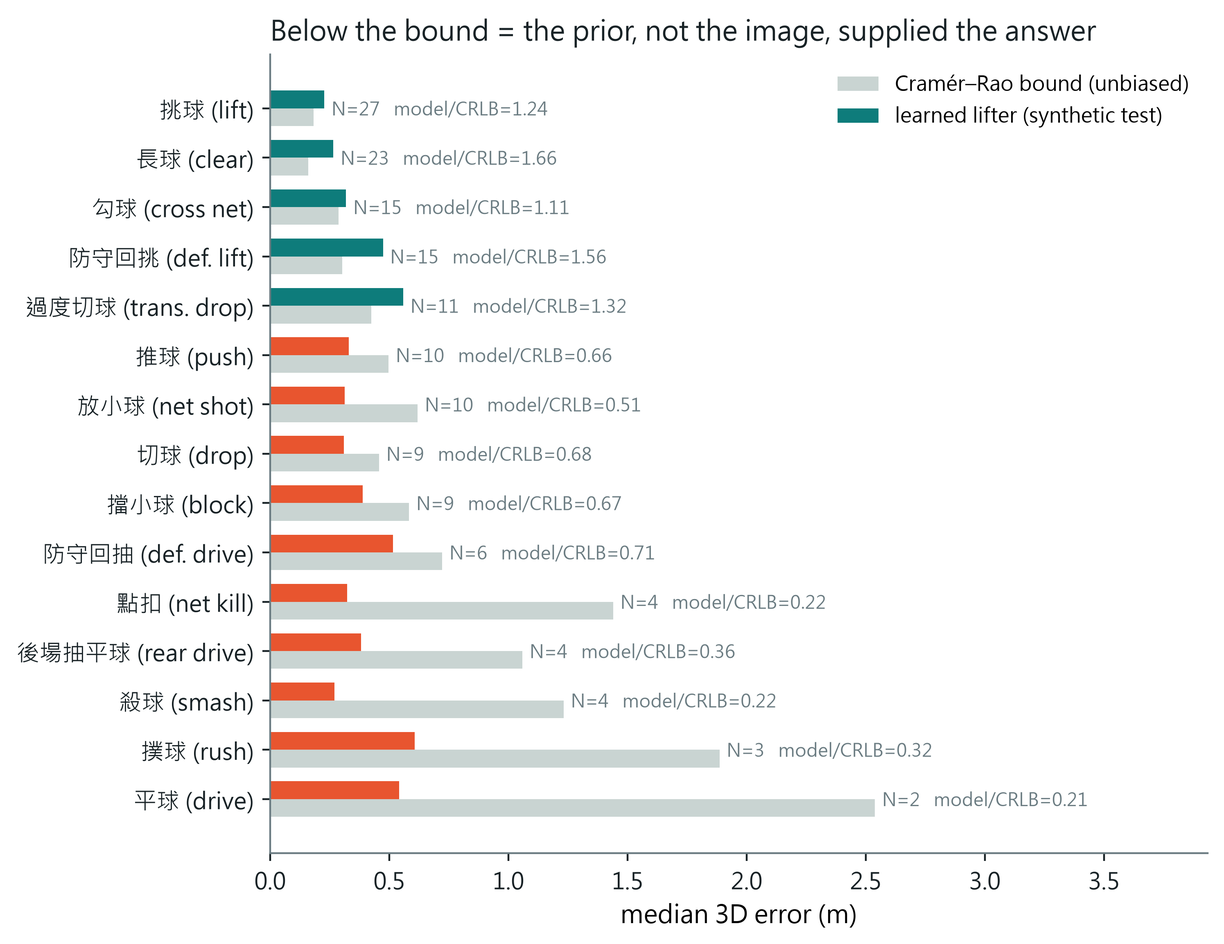
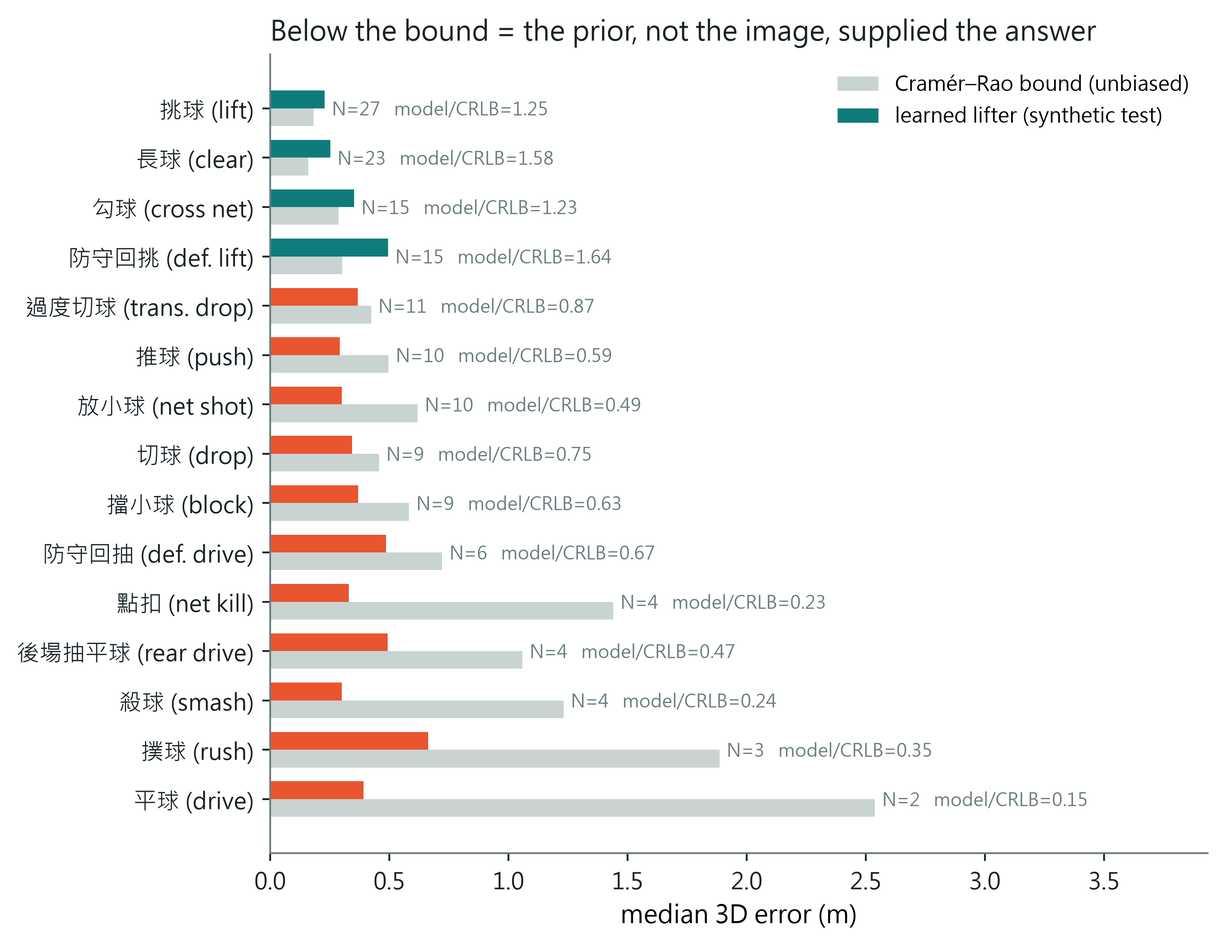
Synthetic tables on the audited v3c model

diff --git a/index.html b/index.html
@@ -104,7 +104,7 @@ h4{font-size:15.5px;font-weight:600;margin:20px 0 6px;color:var(--muted)}
 <div class="abstract">
 <p>Recovering the 3D flight of a shuttlecock from one broadcast camera is ill-posed in a way no other ball sport is. <b>The shuttle is featureless and small</b> &mdash; 6.9&nbsp;px across a 1280-wide frame, a streak when it moves &mdash; so no frame carries scale. <b>It is fast along the optical axis</b> &mdash; a smash is 10&ndash;15 nearly straight frames &mdash; so the curvature that would fix depth is buried in tracker noise. <b>It never bounces</b> &mdash; its only floor contact ends the rally &mdash; so the ground-plane anchor that table tennis and tennis rely on does not exist. With no 3D ground truth for broadcast badminton, prior work validates real footage by 2D reprojection alone; on synthetic strokes with known 3D we show that candidates whose 2D residuals differ by 0.2&nbsp;px differ in 3D error by up to 46&times;, so the metric cannot see the failure it is meant to catch.</p>
 <p>SimTrack3D removes the two bottlenecks that made this unsolvable. <b>Geometry:</b> a court homography leaves focal length undetermined, and we resolve it from the net cord, the one rigid off-plane structure a court has, calibrating thirty-two international broadcast cameras (twenty-two from a corpus with no court annotation) and gating each on the cord's catenary sag, an invariant the fit never sees. <b>Data:</b> instead of sampling flights from assumed ranges we solve aerodynamic boundary-value problems anchored to 13,117 real annotated strokes, producing 77,790 trajectories every one of which clears the cord, and render them through the measured cameras. On this we train <b>Shuttle3D</b>, a ray-depth transformer that supplies the global prior a single view lacks, and pair it with a constrained single-launch-state physics solve that returns a flight the court permits by construction.</p>
-<p>Shuttle3D reaches 0.27&nbsp;m median 3D error on held-out synthetic strokes, unchanged through cameras it never saw, and on smashes beats a faithful MonoTrack re-implementation by 9.6&times;. On 6,914 real tournament strokes the raw network is physically impossible on 27%, against 82% for MonoTrack; the two-tier estimator is possible on 99.5% at a median price of 0.6&nbsp;px of reprojection error, endpoint error is 0.84&nbsp;m against MonoTrack's 3.33&nbsp;m, and the model transfers unchanged to twenty-two venues it never saw. Finally we derive an image-only observability number <i>N</i> that predicts the Cram&eacute;r&ndash;Rao bound (CRLB&nbsp;&prop;&nbsp;<i>N</i><sup>&minus;0.98</sup>, R&sup2;&nbsp;=&nbsp;0.83) and show the lifter beats that unbiased bound by up to 4.7&times; exactly where <i>N</i> is lowest: a measurement of where the image is answering and where the prior is, and the reason the physical guarantee is enforced rather than monitored.</p>
+<p>Shuttle3D reaches 0.27&nbsp;m median 3D error on held-out synthetic strokes, unchanged through cameras it never saw, and on smashes beats a faithful MonoTrack re-implementation by 9.6&times;. On 6,914 real tournament strokes the raw network is physically impossible on 27%, against 82% for MonoTrack; the two-tier estimator is possible on 99.5% at a median price of 0.6&nbsp;px of reprojection error, endpoint error is 0.84&nbsp;m against MonoTrack's 3.33&nbsp;m, and the model transfers unchanged to twenty-two venues it never saw. Finally we derive an image-only observability number <i>N</i> that predicts the Cram&eacute;r&ndash;Rao bound (CRLB&nbsp;&prop;&nbsp;<i>N</i><sup>&minus;0.98</sup>, R&sup2;&nbsp;=&nbsp;0.83) and show the lifter beats that unbiased bound by up to 6.5&times; exactly where <i>N</i> is lowest: a measurement of where the image is answering and where the prior is, and the reason the physical guarantee is enforced rather than monitored.</p>
 </div>
 
 <div class="kv">
@@ -312,27 +312,27 @@ and the closing step adds { (<b>u</b>, <b>s</b>*) : residual(<b>s</b>*) &le; &ta
 </figure>
 <figure>
   <img src="assets/fig_bound.png" alt="Per stroke type: learned lifter error versus the Cramér-Rao bound">
-  <figcaption><b>Fig. 7 — Where the sim-to-real prior takes over.</b> Ten of fifteen stroke types fall below the unbiased bound, by up to 4.7×. Beating an unbiased bound is only possible by being biased, which for a sim-to-real model means the training distribution is answering.</figcaption>
+  <figcaption><b>Fig. 7 — Where the sim-to-real prior takes over.</b> Eleven of fifteen stroke types fall below the unbiased bound, by up to 6.5×. Beating an unbiased bound is only possible by being biased, which for a sim-to-real model means the training distribution is answering.</figcaption>
 </figure>
 <div class="tw"><table>
 <tr><th>stroke type</th><th>strokes</th><th><i>N</i></th><th>CRLB (m)</th><th>Shuttle3D (m)</th><th>model / CRLB</th><th>regime</th></tr>
-<tr><td>&#25361;&#29699; lift</td><td>2,197</td><td>27.0</td><td>0.183</td><td>0.228</td><td>1.24</td><td>image-dominated</td></tr>
-<tr><td>&#38263;&#29699; clear</td><td>900</td><td>23.0</td><td>0.160</td><td>0.266</td><td>1.66</td><td>image-dominated</td></tr>
-<tr><td>&#21246;&#29699; cross net</td><td>222</td><td>15.3</td><td>0.287</td><td>0.319</td><td>1.11</td><td>image-dominated</td></tr>
-<tr><td>&#38450;&#23432;&#22238;&#25361; defensive lift</td><td>162</td><td>14.9</td><td>0.303</td><td>0.474</td><td>1.56</td><td>image-dominated</td></tr>
-<tr><td>&#36942;&#24230;&#20999;&#29699; over-cut drop</td><td>78</td><td>11.1</td><td>0.424</td><td>0.559</td><td>1.32</td><td>image-dominated</td></tr>
-<tr><td>&#25512;&#29699; push</td><td>468</td><td>9.9</td><td>0.497</td><td>0.330</td><td class="bad">0.66</td><td>prior-assisted</td></tr>
-<tr><td>&#25918;&#23567;&#29699; net shot</td><td>2,809</td><td>9.8</td><td>0.619</td><td>0.313</td><td class="bad">0.51</td><td>prior-assisted</td></tr>
-<tr><td>&#20999;&#29699; drop</td><td>1,018</td><td>8.9</td><td>0.458</td><td>0.309</td><td class="bad">0.68</td><td>prior-assisted</td></tr>
-<tr><td>&#25803;&#23567;&#29699; block</td><td>1,285</td><td>8.6</td><td>0.583</td><td>0.388</td><td class="bad">0.67</td><td>prior-assisted</td></tr>
-<tr><td>&#38450;&#23432;&#22238;&#25277; defensive drive</td><td>139</td><td>6.3</td><td>0.723</td><td>0.516</td><td class="bad">0.71</td><td>prior-assisted</td></tr>
-<tr><td>&#40670;&#25187; tap smash</td><td>407</td><td>4.2</td><td>1.440</td><td>0.323</td><td class="bad">0.22</td><td>prior-dominated</td></tr>
-<tr><td>&#24460;&#22580;&#25277;&#24179;&#29699; rear drive</td><td>192</td><td>4.0</td><td>1.059</td><td>0.382</td><td class="bad">0.36</td><td>prior-dominated</td></tr>
-<tr><td>&#27578;&#29699; smash</td><td>1,308</td><td>3.7</td><td>1.232</td><td>0.270</td><td class="bad">0.22</td><td>prior-dominated</td></tr>
-<tr><td>&#25778;&#29699; rush</td><td>162</td><td>3.2</td><td>1.886</td><td>0.607</td><td class="bad">0.32</td><td>prior-dominated</td></tr>
-<tr><td>&#24179;&#29699; drive</td><td>281</td><td>2.3</td><td>2.539</td><td>0.542</td><td class="bad">0.21</td><td>prior-dominated</td></tr>
+<tr><td>&#25361;&#29699; lift</td><td>2,325</td><td>27.0</td><td>0.183</td><td>0.229</td><td>1.25</td><td>image-dominated</td></tr>
+<tr><td>&#38263;&#29699; clear</td><td>894</td><td>23.0</td><td>0.160</td><td>0.252</td><td>1.58</td><td>image-dominated</td></tr>
+<tr><td>&#21246;&#29699; cross net</td><td>200</td><td>15.3</td><td>0.287</td><td>0.353</td><td>1.23</td><td>image-dominated</td></tr>
+<tr><td>&#38450;&#23432;&#22238;&#25361; defensive lift</td><td>144</td><td>14.9</td><td>0.303</td><td>0.495</td><td>1.64</td><td>image-dominated</td></tr>
+<tr><td>&#36942;&#24230;&#20999;&#29699; over-cut drop</td><td>78</td><td>11.1</td><td>0.424</td><td>0.368</td><td class="bad">0.87</td><td>prior-assisted</td></tr>
+<tr><td>&#25512;&#29699; push</td><td>311</td><td>9.9</td><td>0.497</td><td>0.292</td><td class="bad">0.59</td><td>prior-assisted</td></tr>
+<tr><td>&#25918;&#23567;&#29699; net shot</td><td>2,665</td><td>9.8</td><td>0.619</td><td>0.302</td><td class="bad">0.49</td><td>prior-dominated</td></tr>
+<tr><td>&#20999;&#29699; drop</td><td>948</td><td>8.9</td><td>0.458</td><td>0.345</td><td class="bad">0.75</td><td>prior-assisted</td></tr>
+<tr><td>&#25803;&#23567;&#29699; block</td><td>1,518</td><td>8.6</td><td>0.583</td><td>0.370</td><td class="bad">0.63</td><td>prior-assisted</td></tr>
+<tr><td>&#38450;&#23432;&#22238;&#25277; defensive drive</td><td>149</td><td>6.3</td><td>0.723</td><td>0.487</td><td class="bad">0.67</td><td>prior-assisted</td></tr>
+<tr><td>&#40670;&#25187; tap smash</td><td>390</td><td>4.2</td><td>1.440</td><td>0.331</td><td class="bad">0.23</td><td>prior-dominated</td></tr>
+<tr><td>&#24460;&#22580;&#25277;&#24179;&#29699; rear drive</td><td>228</td><td>4.0</td><td>1.059</td><td>0.494</td><td class="bad">0.47</td><td>prior-dominated</td></tr>
+<tr><td>&#27578;&#29699; smash</td><td>1,381</td><td>3.7</td><td>1.232</td><td>0.302</td><td class="bad">0.24</td><td>prior-dominated</td></tr>
+<tr><td>&#25778;&#29699; rush</td><td>176</td><td>3.2</td><td>1.886</td><td>0.663</td><td class="bad">0.35</td><td>prior-dominated</td></tr>
+<tr><td>&#24179;&#29699; drive</td><td>240</td><td>2.3</td><td>2.539</td><td>0.392</td><td class="bad">0.15</td><td>prior-dominated</td></tr>
 </table></div>
-<p>Every stroke type with at least 30 anchored strokes is listed, so the comparison is complete rather than curated. Model errors are per-stroke medians on the full held-out set, which read slightly above the per-frame figure quoted in &sect;5.2. <b>Ten of the fifteen types fall below the unbiased bound, the worst by 4.7&times;</b>, and the ordering is monotone in <i>N</i>: every type with <i>N</i> above 11 sits above the bound as an honest estimator must, and every type from pushes (<i>N</i>&nbsp;=&nbsp;9.9) downward sits below it.</p>
+<p>Every stroke type with at least 30 anchored strokes is listed, so the comparison is complete rather than curated. Model errors are per-stroke medians on the full held-out set, which read slightly above the per-frame figure quoted in &sect;5.2. <b>Eleven of the fifteen types fall below the unbiased bound, the worst by 6.5&times;</b>, and the ordering is monotone in <i>N</i>: every type with <i>N</i> above 14 sits above the bound as an honest estimator must, and every type from the over-cut drop (<i>N</i>&nbsp;=&nbsp;11.1) downward sits below it.</p>
 <p>Because an estimator can only surpass the Cram&eacute;r&ndash;Rao bound by being biased, this is a direct demonstration that in low-observability regimes the answer comes from the learned distribution of real shots rather than from the image. The two types furthest above the bound, the clear and the defensive lift, are long, high, well-observed flights: where the image answers, the estimator behaves like an honest one and pays the full unbiased price.</p>
 <h2 id="exp">5. Experiments</h2>
 <p>Each experiment below opens with the claim it is meant to test and closes with what the numbers actually license. Where a claim is not supported, the section says so.</p>
@@ -353,7 +353,7 @@ and the closing step adds { (<b>u</b>, <b>s</b>*) : residual(<b>s</b>*) &le; &ta
   <figcaption><b>Fig. 8 &mdash; Real badminton broadcast cameras vs. assumed ranges.</b> The camera ranges sampled by Uplifting Table Tennis (WACV 2026) &mdash; 7&ndash;17&nbsp;m, 30&ndash;70&deg; &mdash; were chosen for table tennis and contain none of these. The point is not that they are wrong, but that camera geometry has to be measured per sport rather than transferred.</figcaption>
 </figure>
 <p><b>Real footage.</b> Two corpora. ShuttleSet gives 6,914 non-final strokes across ten venues with an annotated court position at both ends of every stroke &mdash; the ground position of the player who hit it, which the model never sees. TrackNetV3 gives 201 rallies across twenty-two further venues with per-frame 2D shuttle truth but no stroke annotation; strokes are cut from the track where its image speed bottoms out and its direction turns, yielding 2,592 interior strokes. Shuttle positions on ShuttleSet come from TrackNetV3 run on the video (detection 9&ndash;92% per venue); on the TrackNetV3 corpus they are the annotated truth.</p>
-<p><b>Metrics.</b> On synthetic data, 3D error per frame and per stroke, with the per-frame median (0.269&nbsp;m) as the headline because it matches the convention of prior work. On real footage there is no 3D truth, so three quantities that need none: <em>physical possibility</em> (a reconstruction breaks no rule the stroke's existence forbids &mdash; floor, cord, side change, hall), the <em>price of feasibility</em> (reprojection error the constrained solve had to add), and <em>endpoint error</em> against the annotated hit positions, normalised by local depth resolution where types are compared.</p>
+<p><b>Metrics.</b> On synthetic data, 3D error per frame and per stroke, with the per-frame median (0.266&nbsp;m) as the headline because it matches the convention of prior work. On real footage there is no 3D truth, so three quantities that need none: <em>physical possibility</em> (a reconstruction breaks no rule the stroke's existence forbids &mdash; floor, cord, side change, hall), the <em>price of feasibility</em> (reprojection error the constrained solve had to add), and <em>endpoint error</em> against the annotated hit positions, normalised by local depth resolution where types are compared.</p>
 <p><b>Compute.</b> Shuttle3D trains in about 24 minutes on one RTX 3090 and runs in milliseconds per stroke. The constrained solve is the expensive stage at roughly 48&nbsp;s of CPU per stroke, batched over candidate launch states; the whole real benchmark runs in under two hours on 48 cores. This is offline analysis, not a live system.</p>
 
 <h3>5.2 Synthetic benchmark: absolute accuracy by stroke type</h3>
@@ -361,26 +361,26 @@ and the closing step adds { (<b>u</b>, <b>s</b>*) : residual(<b>s</b>*) &le; &ta
 <p>Held-out strokes are partitioned by real anchor, so no replayed flight appears on both sides. Badminton is tactically stratified, and so is the error: the table lists every type with at least thirty held-out strokes, ordered by observability.</p>
 <div class="tw"><table>
 <tr><th>stroke type</th><th>strokes</th><th><i>N</i></th><th>CRLB (m)</th><th>Shuttle3D (m)</th><th>model / CRLB</th></tr>
-<tr><td>&#25361;&#29699; lift</td><td>2,197</td><td>27.0</td><td>0.183</td><td>0.228</td><td>1.24</td></tr>
-<tr><td>&#38263;&#29699; clear</td><td>900</td><td>23.0</td><td>0.160</td><td>0.266</td><td>1.66</td></tr>
-<tr><td>&#21246;&#29699; cross net</td><td>222</td><td>15.3</td><td>0.287</td><td>0.319</td><td>1.11</td></tr>
-<tr><td>&#38450;&#23432;&#22238;&#25361; defensive lift</td><td>162</td><td>14.9</td><td>0.303</td><td>0.474</td><td>1.56</td></tr>
-<tr><td>&#36942;&#24230;&#20999;&#29699; over-cut drop</td><td>78</td><td>11.1</td><td>0.424</td><td>0.559</td><td>1.32</td></tr>
-<tr><td>&#25512;&#29699; push</td><td>468</td><td>9.9</td><td>0.497</td><td>0.330</td><td class="bad">0.66</td></tr>
-<tr><td>&#25918;&#23567;&#29699; net shot</td><td>2,809</td><td>9.8</td><td>0.619</td><td>0.313</td><td class="bad">0.51</td></tr>
-<tr><td>&#20999;&#29699; drop</td><td>1,018</td><td>8.9</td><td>0.458</td><td>0.309</td><td class="bad">0.68</td></tr>
-<tr><td>&#25803;&#23567;&#29699; block</td><td>1,285</td><td>8.6</td><td>0.583</td><td>0.388</td><td class="bad">0.67</td></tr>
-<tr><td>&#38450;&#23432;&#22238;&#25277; defensive drive</td><td>139</td><td>6.3</td><td>0.723</td><td>0.516</td><td class="bad">0.71</td></tr>
-<tr><td>&#40670;&#25187; tap smash</td><td>407</td><td>4.2</td><td>1.440</td><td>0.323</td><td class="bad">0.22</td></tr>
-<tr><td>&#24460;&#22580;&#25277;&#24179;&#29699; rear drive</td><td>192</td><td>4.0</td><td>1.059</td><td>0.382</td><td class="bad">0.36</td></tr>
-<tr><td>&#27578;&#29699; smash</td><td>1,308</td><td>3.7</td><td>1.232</td><td>0.270</td><td class="bad">0.22</td></tr>
-<tr><td>&#25778;&#29699; rush</td><td>162</td><td>3.2</td><td>1.886</td><td>0.607</td><td class="bad">0.32</td></tr>
-<tr><td>&#24179;&#29699; drive</td><td>281</td><td>2.3</td><td>2.539</td><td>0.542</td><td class="bad">0.21</td></tr>
-<tr><td><b>all held-out strokes</b></td><td>11,658</td><td>&mdash;</td><td>&mdash;</td><td><b>0.269</b> per frame / 0.306 per stroke</td><td>&mdash;</td></tr>
+<tr><td>&#25361;&#29699; lift</td><td>2,325</td><td>27.0</td><td>0.183</td><td>0.229</td><td>1.25</td></tr>
+<tr><td>&#38263;&#29699; clear</td><td>894</td><td>23.0</td><td>0.160</td><td>0.252</td><td>1.58</td></tr>
+<tr><td>&#21246;&#29699; cross net</td><td>200</td><td>15.3</td><td>0.287</td><td>0.353</td><td>1.23</td></tr>
+<tr><td>&#38450;&#23432;&#22238;&#25361; defensive lift</td><td>144</td><td>14.9</td><td>0.303</td><td>0.495</td><td>1.64</td></tr>
+<tr><td>&#36942;&#24230;&#20999;&#29699; over-cut drop</td><td>78</td><td>11.1</td><td>0.424</td><td>0.368</td><td class="bad">0.87</td></tr>
+<tr><td>&#25512;&#29699; push</td><td>311</td><td>9.9</td><td>0.497</td><td>0.292</td><td class="bad">0.59</td></tr>
+<tr><td>&#25918;&#23567;&#29699; net shot</td><td>2,665</td><td>9.8</td><td>0.619</td><td>0.302</td><td class="bad">0.49</td></tr>
+<tr><td>&#20999;&#29699; drop</td><td>948</td><td>8.9</td><td>0.458</td><td>0.345</td><td class="bad">0.75</td></tr>
+<tr><td>&#25803;&#23567;&#29699; block</td><td>1,518</td><td>8.6</td><td>0.583</td><td>0.370</td><td class="bad">0.63</td></tr>
+<tr><td>&#38450;&#23432;&#22238;&#25277; defensive drive</td><td>149</td><td>6.3</td><td>0.723</td><td>0.487</td><td class="bad">0.67</td></tr>
+<tr><td>&#40670;&#25187; tap smash</td><td>390</td><td>4.2</td><td>1.440</td><td>0.331</td><td class="bad">0.23</td></tr>
+<tr><td>&#24460;&#22580;&#25277;&#24179;&#29699; rear drive</td><td>228</td><td>4.0</td><td>1.059</td><td>0.494</td><td class="bad">0.47</td></tr>
+<tr><td>&#27578;&#29699; smash</td><td>1,381</td><td>3.7</td><td>1.232</td><td>0.302</td><td class="bad">0.24</td></tr>
+<tr><td>&#25778;&#29699; rush</td><td>176</td><td>3.2</td><td>1.886</td><td>0.663</td><td class="bad">0.35</td></tr>
+<tr><td>&#24179;&#29699; drive</td><td>240</td><td>2.3</td><td>2.539</td><td>0.392</td><td class="bad">0.15</td></tr>
+<tr><td><b>all held-out strokes</b></td><td>11,653</td><td>&mdash;</td><td>&mdash;</td><td><b>0.266</b> per frame / 0.306 per stroke</td><td>&mdash;</td></tr>
 </table></div>
-<p><b>Through cameras the model never saw.</b> The model is trained on 51,717 strokes rendered through the 25 training cameras and tested on 11,658 held-out strokes, 2,524 of them through the 7 held-out cameras. Its per-frame median is <b>0.266&nbsp;m</b> through cameras it never saw, against 0.269&nbsp;m through the cameras it trained on and 0.252&nbsp;m for seen strokes through unseen cameras (2,524 / 9,134 / 14,415 strokes). Per stroke type through unseen cameras the ordering is unchanged: lift 0.203, clear 0.221, smash 0.254, net shot 0.279, block 0.329, drive 0.385&nbsp;m. The camera is not what the network learns.</p>
-<p>Baselines on the same held-out set: assuming the shuttle is on the floor gives 11.8&nbsp;m, a constant depth to the court centre gives 1.99&nbsp;m. The stress sweep of &sect;5.6 shows the 0.269&nbsp;m figure degrades gracefully with detection noise and dropout rather than collapsing.</p>
-<p><b>Conclusion.</b> The claim holds, with a qualification the next sections build on. For lifts and clears the model sits just above the Cram&eacute;r&ndash;Rao bound, as an honest estimator must. For every fast or short stroke it sits <em>below</em> the bound, by up to 4.7&times; on drives. An unbiased estimator cannot do that; the network is answering those strokes from the distribution of real play it was trained on, not from the image. &sect;4 and &sect;6.1 take that up.</p>
+<p><b>Through cameras the model never saw.</b> The model is trained on 51,672 strokes rendered through the 25 training cameras and tested on 11,653 held-out strokes, 2,525 of them through the 7 held-out cameras. Its per-frame median is <b>0.272&nbsp;m</b> through cameras it never saw, against 0.266&nbsp;m through the cameras it trained on and 0.252&nbsp;m for seen strokes through unseen cameras (2,525 / 9,128 / 14,403 strokes). Per stroke type through unseen cameras the ordering is unchanged: lift 0.208, clear 0.217, smash 0.255, net shot 0.271, block 0.328, drive 0.358&nbsp;m. The camera is not what the network learns.</p>
+<p>Baselines on the same held-out set: assuming the shuttle is on the floor gives 11.8&nbsp;m, a constant depth to the court centre gives 1.99&nbsp;m. The stress sweep of &sect;5.6 shows the 0.266&nbsp;m figure degrades gracefully with detection noise and dropout rather than collapsing.</p>
+<p><b>Conclusion.</b> The claim holds, with a qualification the next sections build on. For lifts and clears the model sits just above the Cram&eacute;r&ndash;Rao bound, as an honest estimator must. For every fast or short stroke it sits <em>below</em> the bound, by up to 6.5&times; on drives. An unbiased estimator cannot do that; the network is answering those strokes from the distribution of real play it was trained on, not from the image. &sect;4 and &sect;6.1 take that up.</p>
 
 <h3>5.3 Against MonoTrack: where per-stroke optimisation collapses</h3>
 <p><b>Claim.</b> On the strokes where a monocular image says least &mdash; a smash is 10&ndash;15 nearly straight frames &mdash; a learned prior is not a refinement but the difference between an answer and none.</p>
@@ -420,22 +420,22 @@ and the closing step adds { (<b>u</b>, <b>s</b>*) : residual(<b>s</b>*) &le; &ta
 <p><b>Closing the loop (&sect;3.5).</b> The constrained solve labelled 6,879 real ShuttleSet strokes from eight venues; two venues (1,703 strokes) were held out entirely, and of the 5,176 trainable strokes the residual gate kept the 2,588 below the median. Fine-tuning the 25-camera model for twelve epochs on batches drawn one quarter from these labels and three quarters from synthetic data, and then scoring the <i>raw</i> network with no solve at test time, the fraction of physically impossible reconstructions falls from 13.7% to 9.0% on the trained venues and from <b>26.4% to 20.0%</b> on the two it never saw, while held-out synthetic error moves from 0.268 to 0.279&nbsp;m. A quarter of the real-footage failures were learnable from the court's rules alone, without a single 3D label; the remaining three quarters are what the second tier is for.</p>
 <div class="tw"><table>
 <tr><th>camera group (synthetic, held-out strokes)</th><th>venues</th><th>height / distance</th><th>strokes</th><th>3D error, median (m)</th><th>height error (m)</th></tr>
-<tr><td>low and near</td><td>16</td><td>4.0&ndash;7.0&nbsp;m / 16.8&ndash;30.9&nbsp;m</td><td>5,760</td><td>0.287</td><td>0.063</td></tr>
-<tr><td>mid</td><td>11</td><td>7.0&ndash;9.8&nbsp;m / 20.9&ndash;37.9&nbsp;m</td><td>4,036</td><td>0.287</td><td>0.089</td></tr>
-<tr><td>high and far</td><td>5</td><td>10.6&ndash;15.2&nbsp;m / 30.5&ndash;42.7&nbsp;m</td><td>1,862</td><td>0.281</td><td>0.126</td></tr>
+<tr><td>low and near</td><td>16</td><td>4.0&ndash;7.0&nbsp;m / 16.8&ndash;30.9&nbsp;m</td><td>5,850</td><td>0.283</td><td>0.063</td></tr>
+<tr><td>mid</td><td>11</td><td>7.0&ndash;9.8&nbsp;m / 20.9&ndash;37.9&nbsp;m</td><td>4,015</td><td>0.277</td><td>0.088</td></tr>
+<tr><td>high and far</td><td>5</td><td>10.6&ndash;15.2&nbsp;m / 30.5&ndash;42.7&nbsp;m</td><td>1,788</td><td>0.287</td><td>0.127</td></tr>
 </table></div>
-<p><b>Conclusion.</b> The claim holds on both sides of the sim-to-real boundary. On synthetic data accuracy is flat across camera geometry (a 0.006&nbsp;m spread, two orders of magnitude below the error; only the height component grows with camera height, 0.063 to 0.126&nbsp;m), and on real footage unseen venues are within five points of seen ones (33.1% vs 27.8% impossible on TrackNetV3, 72.3% vs 73.0% possible on ShuttleSet). This is what the ray parameterisation buys: the network never sees pixels or intrinsics, only world-space directions, and calibration carries the geometry. It also means the venue count is not the bottleneck it looked like; the prior is.</p>
+<p><b>Conclusion.</b> The claim holds on both sides of the sim-to-real boundary. On synthetic data accuracy is flat across camera geometry (a 0.010&nbsp;m spread, an order of magnitude below the error; only the height component grows with camera height, 0.063 to 0.127&nbsp;m), and on real footage unseen venues are within five points of seen ones (33.1% vs 27.8% impossible on TrackNetV3, 72.3% vs 73.0% possible on ShuttleSet). This is what the ray parameterisation buys: the network never sees pixels or intrinsics, only world-space directions, and calibration carries the geometry. It also means the venue count is not the bottleneck it looked like; the prior is.</p>
 
 <h3>5.6 Robustness to tracker noise and dropout</h3>
 <p><b>Claim.</b> The model degrades gracefully with the two failures real trackers actually have.</p>
-<p>Training injects &sigma;&nbsp;=&nbsp;2&nbsp;px detection noise and 5% random dropout. A sweep over noise level and the number of <em>consecutively</em> dropped frames measures the margin. Each cell is 1,906&ndash;2,000 held-out strokes; the figure is the median per-stroke 3D error in metres.</p>
+<p>Training injects &sigma;&nbsp;=&nbsp;2&nbsp;px detection noise and 5% random dropout. A sweep over noise level and the number of <em>consecutively</em> dropped frames measures the margin. Each cell is 1,908&ndash;2,000 held-out strokes; the figure is the median per-stroke 3D error in metres.</p>
 <div class="tw"><table>
 <tr><th>tracker noise</th><th>0 dropped</th><th>2 dropped</th><th>4 dropped</th><th>6 dropped</th><th>8 dropped</th></tr>
-<tr><td>&sigma; = 1 px</td><td class="good">0.309</td><td>0.328</td><td>0.358</td><td>0.426</td><td>0.485</td></tr>
-<tr><td>&sigma; = 2 px (training condition)</td><td>0.318</td><td>0.325</td><td>0.376</td><td>0.429</td><td>0.519</td></tr>
-<tr><td>&sigma; = 3 px</td><td>0.340</td><td>0.346</td><td>0.387</td><td>0.459</td><td>0.519</td></tr>
-<tr><td>&sigma; = 4 px</td><td>0.355</td><td>0.367</td><td>0.410</td><td>0.475</td><td>0.534</td></tr>
-<tr><td>&sigma; = 5 px</td><td>0.384</td><td>0.401</td><td>0.426</td><td>0.470</td><td>0.566</td></tr>
+<tr><td>&sigma; = 1 px</td><td class="good">0.302</td><td>0.322</td><td>0.354</td><td>0.404</td><td>0.483</td></tr>
+<tr><td>&sigma; = 2 px (training condition)</td><td>0.311</td><td>0.333</td><td>0.365</td><td>0.431</td><td>0.487</td></tr>
+<tr><td>&sigma; = 3 px</td><td>0.335</td><td>0.344</td><td>0.379</td><td>0.442</td><td>0.490</td></tr>
+<tr><td>&sigma; = 4 px</td><td>0.353</td><td>0.371</td><td>0.400</td><td>0.456</td><td>0.527</td></tr>
+<tr><td>&sigma; = 5 px</td><td>0.374</td><td>0.391</td><td>0.425</td><td>0.467</td><td>0.542</td></tr>
 </table></div>
 <p><b>Conclusion.</b> Quintupling detection noise costs 25%; dropping eight consecutive frames costs 69% at every noise level, and the two effects are close to separable. Real trackers fail by <em>losing the shuttle</em>, not by jittering (9&ndash;92% detection per venue on our footage), so it is the length of the gap, not the precision of the hits, that governs what can be recovered.</p>
 
@@ -444,7 +444,7 @@ and the closing step adds { (<b>u</b>, <b>s</b>*) : residual(<b>s</b>*) &le; &ta
 <div class="tw"><table>
 <tr><th>ablation</th><th>without</th><th>with</th><th>what the difference is</th></tr>
 <tr><td><b>Calibration:</b> court lines only vs. lines + net cord</td><td>Zhang's two constraints disagree on focal length by 65%; a rigid camera fitted to the court alone reproduces court + net at 17&ndash;46&nbsp;px (median 27)</td><td>0.34&ndash;1.88&nbsp;px (median 0.88) on the ten ShuttleSet venues; 1.04&nbsp;px median on the twenty-two TrackNetV3 venues</td><td>A plane cannot fix a focal length. The cord is the one rigid off-plane structure the court offers, and its sag, never fitted, rejected 3 of 20 and 4 of 26 calibrations whose residuals looked fine.</td></tr>
-<tr><td><b>Synthesis:</b> launch states drawn from broad ranges vs. anchored to 13,117 real strokes</td><td>0.490&nbsp;m per-frame median on the anchored held-out test (0.465 through unseen cameras); smash 0.636&nbsp;m, drop 0.806&nbsp;m</td><td>0.269&nbsp;m (0.266 through unseen cameras); smash 0.254&nbsp;m, drop 0.313&nbsp;m</td><td>Same 25 cameras, same feasibility filter, same network and schedule; only the distribution of flights changes. Anchoring to real play is worth 1.8&times; overall and 2.5&times; on smashes, the strokes where the image says least and the prior matters most. It transfers: on the same 800 real strokes the random-synthesis network's endpoint error is 1.29&nbsp;m against 0.90&nbsp;m (smash 1.24 vs 0.60, lift 1.86 vs 1.12, slice 1.27 vs 0.79), while clears and drops are tied (0.66 vs 0.70, 0.90 vs 0.89) &mdash; and it breaks slightly fewer rules (67.9% vs 64.6% possible), which is the &sect;5.5 control again.</td></tr>
+<tr><td><b>Synthesis:</b> launch states drawn from broad ranges vs. anchored to 13,117 real strokes</td><td>0.490&nbsp;m per-frame median on the anchored held-out test (0.465 through unseen cameras); smash 0.636&nbsp;m, drop 0.806&nbsp;m</td><td>0.266&nbsp;m (0.272 through unseen cameras); smash 0.255&nbsp;m, drop 0.303&nbsp;m</td><td>Same 25 cameras, same feasibility filter, same network and schedule; only the distribution of flights changes. Anchoring to real play is worth 1.8&times; overall and 2.5&times; on smashes, the strokes where the image says least and the prior matters most. It transfers: on the same 800 real strokes the random-synthesis network's endpoint error is 1.29&nbsp;m against 0.90&nbsp;m (smash 1.24 vs 0.60, lift 1.86 vs 1.12, slice 1.27 vs 0.79), while clears and drops are tied (0.66 vs 0.70, 0.90 vs 0.89) &mdash; and it breaks slightly fewer rules (67.9% vs 64.6% possible), which is the &sect;5.5 control again.</td></tr>
 <tr><td><b>Inference:</b> physics-only fit / network only / two-tier (400 held-out synthetic strokes, 25-camera model)</td><td>physics only 0.672&nbsp;m; network only 0.269&nbsp;m; MonoTrack 0.944&nbsp;m</td><td>two-tier 0.226&nbsp;m (0.242 with the court constraints enforced)</td><td>On smashes physics alone gives 2.41&nbsp;m, above the 1.23&nbsp;m bound, and the network 0.229; the prior-guided solve keeps 0.213. On lifts and clears, where <i>N</i> is highest, physics alone is within 0.12&nbsp;m of the network and the combination is best of all (0.117, 0.186). The two tiers cover each other's blind spot, and the physics tier does most for the derived quantities a coach would use: launch speed 2.55&nbsp;&rarr;&nbsp;1.15&nbsp;m/s, launch angle 2.9&deg;&nbsp;&rarr;&nbsp;0.6&deg;, apex position 0.30&nbsp;&rarr;&nbsp;0.22&nbsp;m, net margin 0.083&nbsp;&rarr;&nbsp;0.063&nbsp;m median error (MonoTrack 3.4&nbsp;m/s, 5.0&deg;, 0.76&nbsp;m, 0.17&nbsp;m).</td></tr>
 <tr><td><b>Inference on real footage:</b> network only vs. two-tier</td><td>72.8% physically possible, 0.79&nbsp;m endpoint (6,914 strokes)</td><td>99.5%, 0.84&nbsp;m, +0.58&nbsp;px median</td><td>The guarantee is bought in the directions the image does not constrain (&sect;3.4).</td></tr>
 <tr><td><b>Self-training:</b> synthetic only vs. + gated pseudo-labels from the constrained solve</td><td>raw network impossible on 26.4% of strokes at two held-out venues; 0.268&nbsp;m synthetic</td><td>20.0%; 0.279&nbsp;m synthetic</td><td>Labels came from the court's rules, not from ground truth (&sect;3.5). The gain is on the held-out venues, so it is the physics that transferred, not the venues' depth prior.</td></tr>
@@ -454,7 +454,7 @@ and the closing step adds { (<b>u</b>, <b>s</b>*) : residual(<b>s</b>*) &le; &ta
 <h3>6.1 Observability: the information limit, and where the prior takes over</h3>
 <p>Three things follow from &sect;4, and they are best kept apart.</p>
 <p><b>The theoretical result.</b> <i>N</i> is computable from the 2D track alone and predicts the Cram&eacute;r&ndash;Rao bound on the six launch parameters with CRLB&nbsp;&prop;&nbsp;<i>N</i><sup>&minus;0.98</sup> (R&sup2;&nbsp;=&nbsp;0.83, Spearman &minus;0.92), with the partial correlation controlling for frame count at &minus;0.59. It is the information-theoretic limit of a single view: the best any unbiased method could do on that stroke, stated in metres before any reconstruction exists. Across stroke types the limit spans 16&times;, from 0.16&nbsp;m on a clear to 2.54&nbsp;m on a drive.</p>
-<p><b>The empirical finding.</b> The learned lifter beats that limit on ten of fifteen stroke types, by up to 4.7&times;, and the ordering of the ratio follows <i>N</i> exactly (&sect;5.2). Beating an unbiased bound is only possible by being biased, and for a sim-to-real model the bias has a name: the distribution of real tactical play the flights were anchored to. The measurement is therefore a clean separation of what the image supplies from what the prior supplies. Where <i>N</i> is high the model tracks the bound from above and is reading the image; where <i>N</i> is low it sits far below the bound and is reading the training distribution. MonoTrack, which has no prior, sits above the bound everywhere (&sect;5.3): the two estimators bracket the limit from opposite sides.</p>
+<p><b>The empirical finding.</b> The learned lifter beats that limit on eleven of fifteen stroke types, by up to 6.5&times;, and the ordering of the ratio follows <i>N</i> exactly (&sect;5.2). Beating an unbiased bound is only possible by being biased, and for a sim-to-real model the bias has a name: the distribution of real tactical play the flights were anchored to. The measurement is therefore a clean separation of what the image supplies from what the prior supplies. Where <i>N</i> is high the model tracks the bound from above and is reading the image; where <i>N</i> is low it sits far below the bound and is reading the training distribution. MonoTrack, which has no prior, sits above the bound everywhere (&sect;5.3): the two estimators bracket the limit from opposite sides.</p>
 <p><b>The engineering conclusion.</b> A prior-filled answer is right when the stroke was typical and wrong when it was not, and nothing computable from the stroke's geometry distinguishes the two cases. We tested this directly on 6,914 real strokes: <i>N</i> correlates with real endpoint error at +0.13 per stroke (+0.07 holding frame count fixed), the opposite sign from the theory, because the low-<i>N</i> strokes are the stereotyped ones the prior fits best. The number this field reports, held-out synthetic error, cannot be attached to a real stroke at all: it exists only as an average over a synthetic set that shares its prior with the model, and &sect;5.5 shows a model that is 1.4&times; worse on real endpoints while breaking fewer rules. Neither an information measure nor the synthetic score can triage real strokes. That is not a defect of <i>N</i>; it is the reason the second tier exists. The one image-side quantity with usable signal is the reprojection residual of the unconstrained physics fit itself: on the same 6,914 strokes it correlates with endpoint error at +0.33, and the tenth of strokes with the largest residual have a median endpoint error of 2.76&nbsp;m against 0.74&nbsp;m for the rest. That is a consistency check, not an information measure, and it is the natural flag to report beside the guarantee. Real broadcasts carry noise the theory does not model &mdash; non-Gaussian tracker failure, camera shake, a shuttle that is a streak &mdash; so monitoring information content is not enough, and the constrained physics solve of &sect;3.4 is the safety net that makes the guarantee unconditional: every output is a possible flight whether or not the prior was trustworthy on that stroke.</p>
 
 <p><b>What the community should take from this.</b> A synthetic test set shares its prior with the training set, so the error it reports cannot see the one failure sim-to-real is prone to. The closest precedent, physics-simulation plausibility for human pose, reached the same shape of result. The practical recommendation is not a new metric to monitor but a change of design: put the physical rules in the estimator, where they cannot be traded away, and report the price of doing so.</p>
